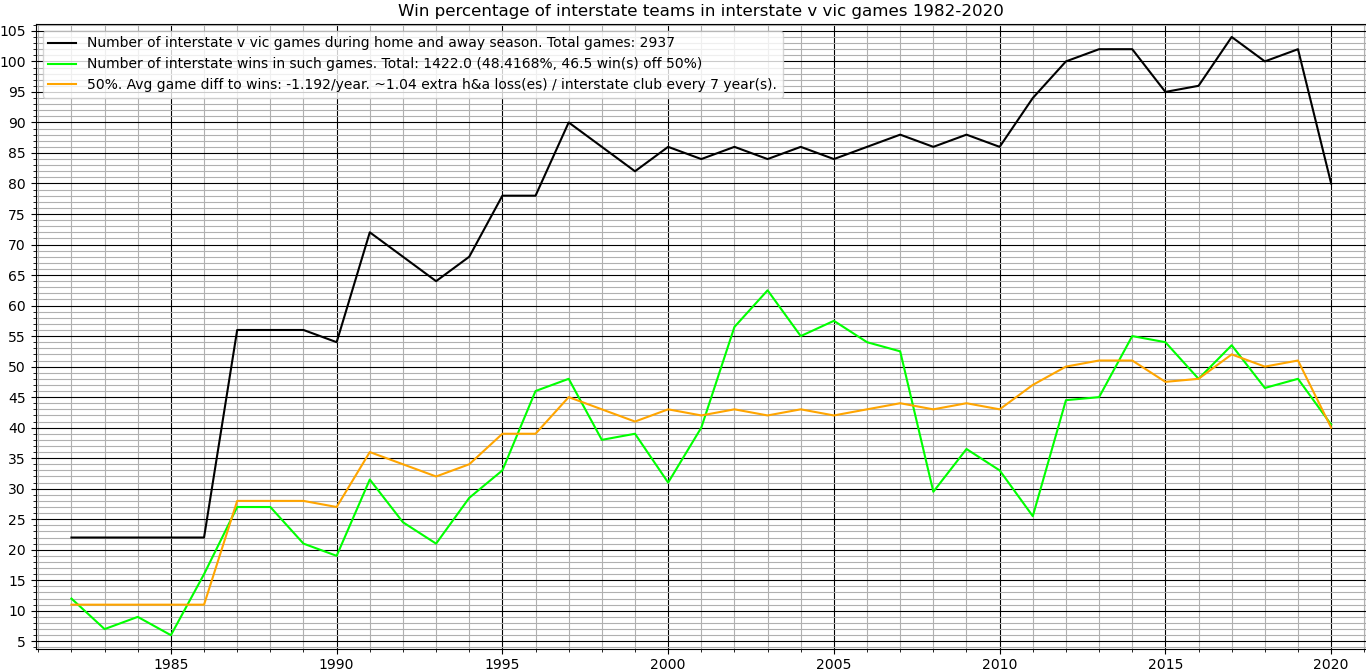
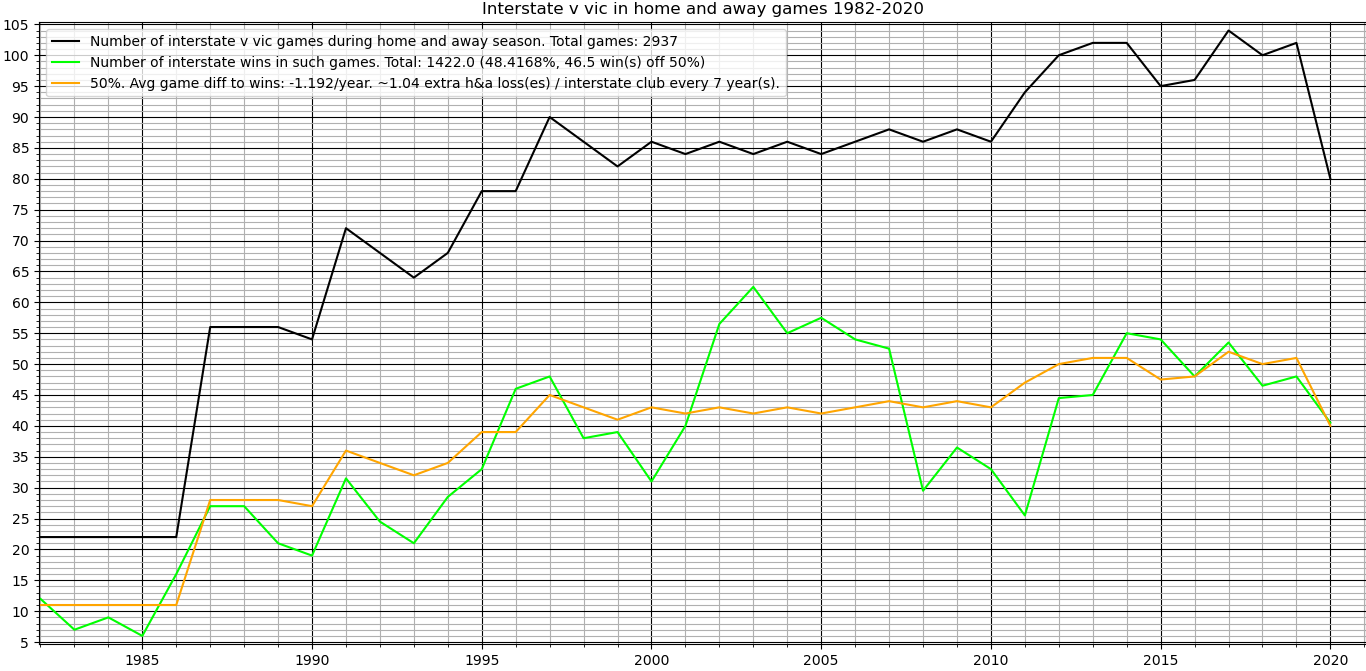
some changes to interstate premierships of all graphs, and rename two other graphs

diff --git a/interstateVvic.py b/interstateVvic.py
@@ -119,6 +119,7 @@ class Season(object):
         self._home_and_away_ladder_position = 0
         self._finals_percentage = 0.0
         self._final_ladder_position = 0
+
     def get_form(self, round):
         """Returns w/l record of 5 rounds immediately before selected one"""
         if round < 5:
@@ -136,6 +137,8 @@ class Club(object):
         self._interstate = interstate
         self._seasons = {}
         self._year_entered_comp = year_entered_comp
+        self._expected_premierships = []
+        self._premierships = []
     #def get_season(self, year):
     #    return self._seasons[year - 2000]
 victoria = ["M.C.G.", "Princes Park", "Docklands", "Kardinia Park"]
@@ -231,6 +234,7 @@ all_wc_haa = 0
 all_wc_haa_wins = 0
 
 years = range(year_started, this_season + 1)
+current_clubs = set(clubs.values())
 
 r_hg_record_haa = [[0.0, 0]]
 g_hg_record_haa = [[0.0, 0]]
@@ -265,7 +269,6 @@ with open(path_to_file, "w") as f:
 
 for year in years:
     last_season = this_season# int(tables[0].find('tr').find('a').text) - 1
-    current_clubs = set(clubs.values())
     for i in current_clubs:
         i._seasons[year] = Season(year)
     text = stored_info[year] #getURL(universalURL.format(year))
@@ -316,11 +319,22 @@ for year in years:
             clubs[team1]._seasons[year]._final_ladder_position = x + 2
             clubs[team2]._seasons[year]._final_ladder_position = x + 1
         #If this is the gf and its not a draw and at least one of the teams is interstate
-        if team1_score != team2_score and (clubs[team1]._seasons[year]._final_ladder_position == 1 or clubs[team2]._seasons[year]._final_ladder_position == 1) and (clubs[team1]._interstate or clubs[team2]._interstate):
-            if (clubs[team1]._interstate and not clubs[team2]._interstate) or (clubs[team2]._interstate and not clubs[team1]._interstate):
-                interstate_v_vic_grand_finals.append(year)
-            if clubs[match._winner]._interstate:
-                interstate_premierships.append(year)
+        if team1_score != team2_score and (clubs[team1]._seasons[year]._final_ladder_position == 1 or clubs[team2]._seasons[year]._final_ladder_position == 1):
+            if (clubs[team1]._interstate or clubs[team2]._interstate):
+                if (clubs[team1]._interstate and not clubs[team2]._interstate) or (clubs[team2]._interstate and not clubs[team1]._interstate):
+                    interstate_v_vic_grand_finals.append(year)
+                if clubs[match._winner]._interstate:
+                    interstate_premierships.append(year)
+                    if len(clubs[match._winner]._premierships) == 0:
+                        clubs[match._winner]._premierships.append(1)
+                    else:
+                        clubs[match._winner]._premierships.append(clubs[match._winner]._premierships[-1] + 1)
+            for i in current_clubs:
+                if i._interstate and year >= i._year_entered_comp and i != clubs[match._winner]:
+                    if len(i._premierships) == 0:
+                        i._premierships.append(0)
+                    else:
+                        i._premierships.append(i._premierships[-1])
         if tables[x + 2].text == "Finals":
             break
         x += 2
@@ -453,6 +467,10 @@ for year in years:
         season = i._seasons[year]
         if len(season._total_matches) > 0:
             total_sides += 1
+            if len(i._expected_premierships) == 0:
+                i._expected_premierships.append(1 / season._teams_in_season)
+            else:
+                i._expected_premierships.append(1 / season._teams_in_season + i._expected_premierships[-1])
             if i._interstate:
                 number_of_interstate_sides += 1
                 interstate_win_percentages.append(season._home_and_away_win_percentage)
@@ -639,7 +657,7 @@ ax4.tick_params(pad=24.0)
 ax4.set_xticklabels(finals_qualifiers_per_year)
 '''
 
-plt.title('Win percentage of interstate teams in interstate v vic games ' + str(year_started) + "-" + str(last_season))
+plt.title('Interstate v vic in home and away games ' + str(year_started) + "-" + str(last_season))
 
 
 fig3 = plt.figure()
@@ -660,7 +678,7 @@ az.scatter(interstate_premierships, y_12_2, c='blue', label="Interstate premiers
 plt.legend()
 plt.xlabel('Years')
 #plt.ylabel('Games')
-plt.title('Interstate finals campaigns ' + str(year_started) + "-" + str(last_season))
+plt.title('Interstate v vic in finals games ' + str(year_started) + "-" + str(last_season))
 number_of_interstate_sides
 
 fig4 = plt.figure()
@@ -752,6 +770,8 @@ plt.legend()
 plt.xlabel('Years')
 plt.title('Quality of interstate finals series qualifications ' + str(year_started) + "-" + str(last_season))
 
+
+
 """
 Conclusions from this first graph is:
 I write this precedeeing the 2021 season. So as of now, interstate sides have
@@ -838,9 +858,16 @@ ay.grid(which='major', color="black")
 
 expected_interstate_premierships = sum(number_of_interstate_sides_per_year) / 100
 
-ay.step(x, expected_premierships_per_year, color='yellow', label="Total expected premierships (" + str(round(expected_interstate_premierships, 2)) + "). Total expected grand final appearances: " + str(round(2 * expected_interstate_premierships, 2)), where='post')
-ay.step(x, premierships_per_year, color='b', label="Total premierships (" + str(len(y_10_2)) + "). Total grand final appearances: "+ str((len(list((set(interstate_v_vic_grand_finals) & set(interstate_premierships)) ^ set(interstate_premierships))) + len(list(set(interstate_v_vic_grand_finals) | set(interstate_premierships))))))
-
+#crimson
+ay.plot(x, expected_premierships_per_year, color='b', label="Total expected premierships / (" + str(round(expected_interstate_premierships, 2)) + "). Total expected grand final appearances: " + str(round(2 * expected_interstate_premierships, 2)))#, where='post'
+ay.step(x, premierships_per_year, color='b', label="Total premierships _| (" + str(len(y_10_2)) + "). Total grand final appearances: "+ str((len(list((set(interstate_v_vic_grand_finals) & set(interstate_premierships)) ^ set(interstate_premierships))) + len(list(set(interstate_v_vic_grand_finals) | set(interstate_premierships))))))
+colours = {"Gold Coast":"yellow", "Richmond":"yellow", "North Melbourne":"royalblue", "Essendon":"red", "Carlton":"navy", "Collingwood":"black", "Melbourne":"lime", "Hawthorn":"brown", "Fitzroy":"grey", "St Kilda":"crimson", "Western Bulldogs":"green", "Fremantle":"purple", "Greater Western Sydney":"orange", "Brisbane Lions": "orangered", "Port Adelaide":"cyan", "West Coast":"goldenrod", "Sydney":"deeppink", "Adelaide":"royalblue"} #ugh takes so long to write out
+#ab.plot(x, finals_cutoff, color='k', label="Number of sides allowed to play finals.")
+for i in current_clubs:
+    if i._interstate:
+        ay.set_prop_cycle(color=colours[i._name])
+        ay.plot(x[x.index(i._year_entered_comp):], i._expected_premierships, label="Expected / and actual _| premierships for " + i._name + " (Expected: " + str(round(i._expected_premierships[-1], 2)) + ", Actual: " + str(i._premierships[-1]) + ')')#, where='post'
+        ay.step(x[x.index(i._year_entered_comp):], i._premierships, where='post')
 plt.legend()
 plt.xlabel('Years')
 plt.ylabel('Premierships')
